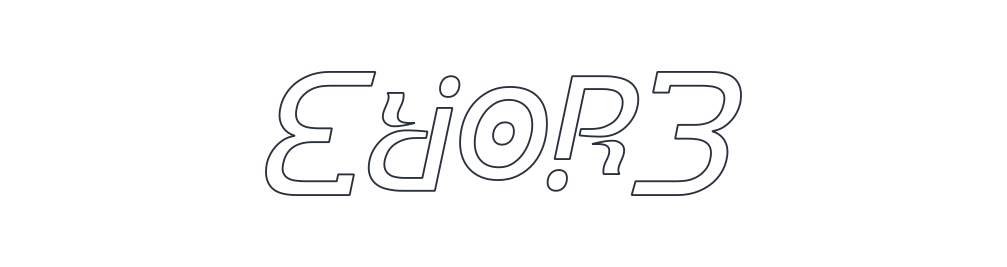
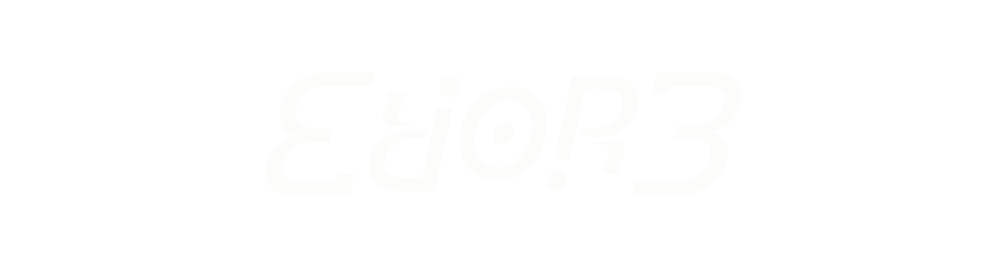
Restyle eidorb link in message bubble

diff --git a/brodie.id.au/convo.html b/brodie.id.au/convo.html
@@ -16,13 +16,14 @@
                 <span class="sender">Me</span>
             </p>
             <hr>
-            <div class="message_part">
-                <div class="app"><a href="https://github.com/eidorb">
-                        <div class="app_header"><img src="_static/ambiambigram.png">
-                            <div class="name">😜</div>
-                        </div>
-                    </a></div>
-            </div>
+            <a href="https://github.com/eidorb" style="text-decoration: none;">
+                <div class="message_part">
+                    <div class="bubble">
+                        <span class="sender"><img src="_static/ambiambigram.png">
+                            😜</span>
+                    </div>
+                </div>
+            </a>
         </div>
     </div>
 </div>
